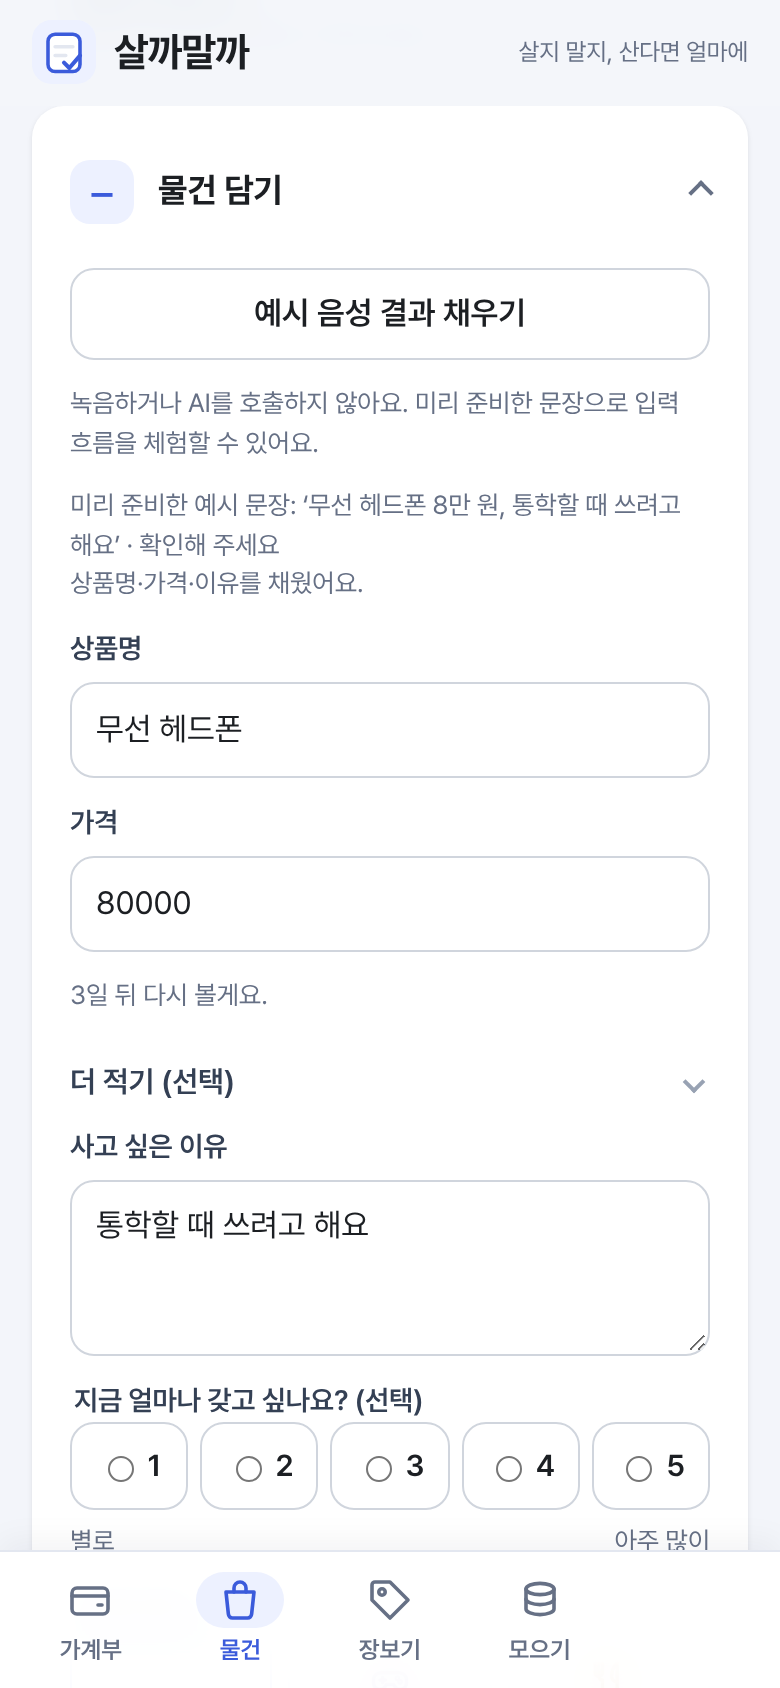
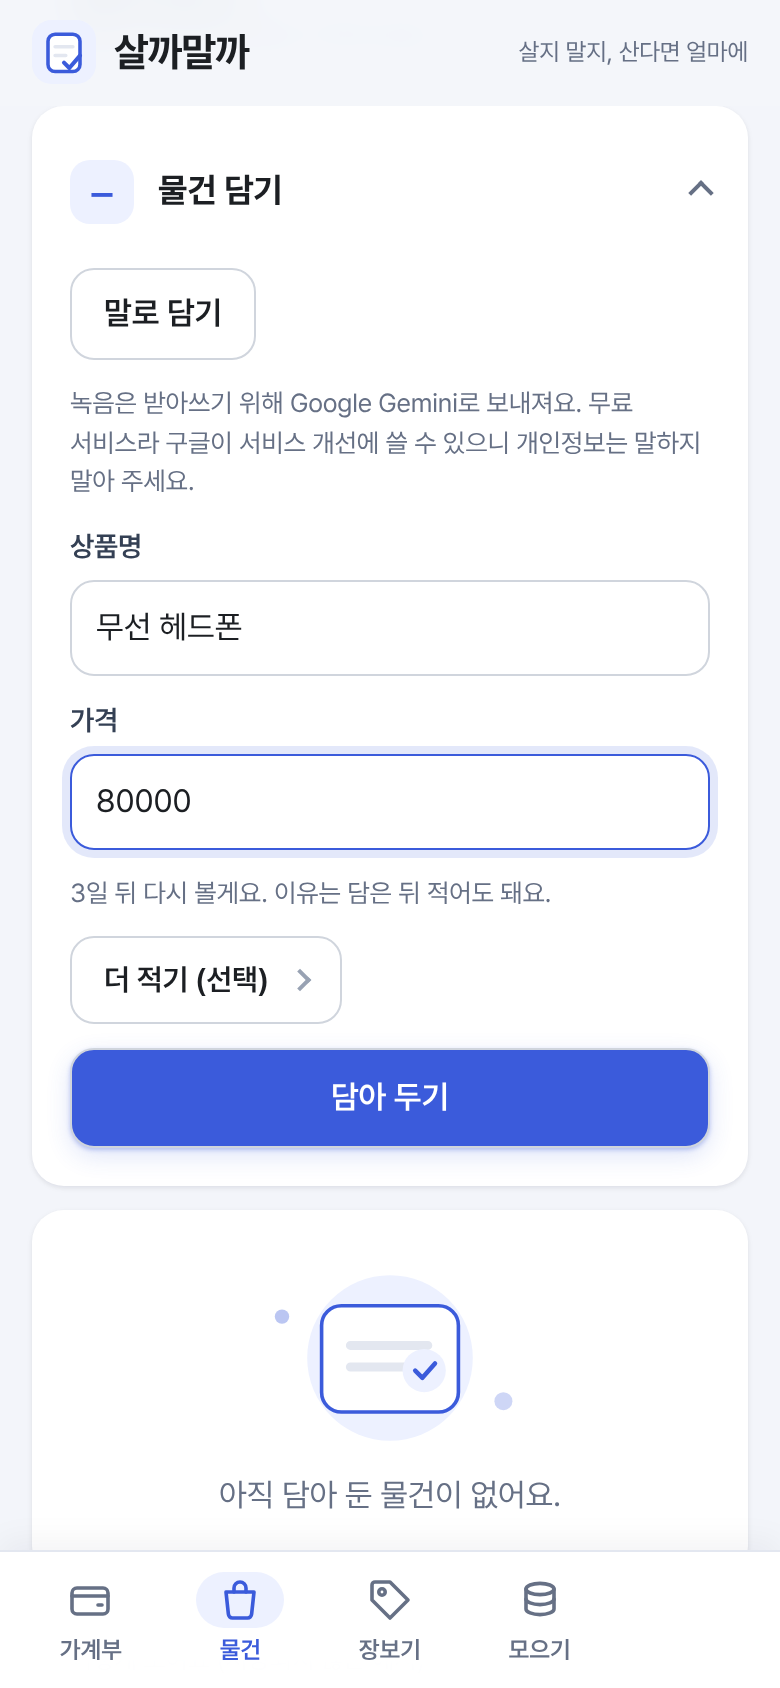
docs: bring the README up to date with the current app and retake photos
- Quick add: the public site has 말로 담기 (real recording to Gemini), not
  the demo voice button; the photo now shows name and price typed in
- Ledger: the payment/spending calendar is first and notes are folded;
  home, calendar, summary and dashboard photos retaken with the public
  (AI-connected) build; summary shot no longer has the bottom menu over it
- External prices, TODO stage table (46, 47), remaining-line counts, test
  count, commit count, skill notes and the deploy note match today
- capture.cjs works with the AI-connected build (skips the stored photo
  demo, types the quick-add values) and hides the menu in part shots

Claude-Session: https://claude.ai/code/session_01S73EWnxhi58fNFdfNCHbgg

diff --git a/docs/midterm_compare/README.md b/docs/midterm_compare/README.md
@@ -4,7 +4,7 @@
 
 ## 촬영 조건
 
-2026-11-02에 [capture.cjs](capture.cjs)로 다시 찍었다. GitHub Pages 배포 작업과 같은 방법으로 `main` 빌드와 `v1` 태그 빌드를 한 묶음으로 만들고, 새 브라우저(빈 저장소)에서 휴대폰 화면 390×844, 2배 해상도로 찍었다.
+2026-11-02에 [capture.cjs](capture.cjs)로 다시 찍었고, 개선본의 가계부·물건 사진(02·04·06·09·11·15)은 2026-11-03 공개 빌드(AI 서버 연결)로 다시 찍었다(가계부 달력이 맨 위로 옮겨짐). GitHub Pages 배포 작업과 같은 방법으로 `main` 빌드와 `v1` 태그 빌드를 한 묶음으로 만들고, 새 브라우저(빈 저장소)에서 휴대폰 화면 390×844, 2배 해상도로 찍었다.
 
 - 한 화면 사진(01\~06, 10)은 모두 780×1688, 같은 비율이다. 전후 사진은 같은 폭으로 나란히 놓는다.
 - 부분 사진(09, 11, 12, 14)은 카드 하나만 잘라 폭 716이고 높이는 내용만큼이다.
@@ -16,15 +16,15 @@
 | :---: | :---: |
 | <img src="01-home.png" width="260" alt="1차 물건 담기 첫 화면"> | <img src="02-home.png" width="260" alt="개선본 가계부 첫 화면"> |
 
-1차의 네 메뉴는 고민 중인 물건·가격 비교·결정 기록·구독이었다. 개선본은 2026-11-02(TODO 45단계)부터 가계부·물건·장보기·모으기 네 메뉴이고 가계부에서 시작한다(그 전에는 가격 비교·물건·결정 기록·가계부·모으기 다섯 메뉴에 가격 비교 시작). 결정 기록은 물건 안 하위 탭, 가격 비교는 장보기 안에 있다. **가격표 사진 예시**는 장보기의 마지막 비교 탭이고 주소 끝에 `?tab=photo`를 붙이면 바로 열린다. 사진 버튼은 2026-11-02 로컬 Gemini가 읽은 응답을 저장해 둔 것을 다시 보여 줄 뿐, 사진을 새로 분석하지 않는다. 2026-11-02 디자인 개선(TODO 37단계) 뒤로는 휴대폰 폭에서 주요 메뉴가 화면 아래에 아이콘과 함께 붙고, 비교 탭 네 개는 2×2 분할 버튼으로 보인다.
+1차의 네 메뉴는 고민 중인 물건·가격 비교·결정 기록·구독이었다. 개선본은 2026-11-02(TODO 45단계)부터 가계부·물건·장보기·모으기 네 메뉴이고 가계부에서 시작한다(그 전에는 가격 비교·물건·결정 기록·가계부·모으기 다섯 메뉴에 가격 비교 시작). 결정 기록은 물건 안 하위 탭, 가격 비교는 장보기 안에 있다. 2026-11-03부터 공개 빌드는 AI 서버에 연결돼 장보기의 첫 탭이 실시간 **가격표 사진**이고, 주소 끝에 `?tab=photo`를 붙이면 바로 열린다(그 전에는 저장된 **가격표 사진 예시**가 마지막 탭이었다). 2026-11-02 디자인 개선(TODO 37단계) 뒤로는 휴대폰 폭에서 주요 메뉴가 화면 아래에 아이콘과 함께 붙고, 비교 탭 네 개는 2×2 분할 버튼으로 보인다.
 
 ## 물건을 담을 때
 
 | 1차: 상품명·가격·이유를 함께 적음 | 개선본: 상품명·가격부터 담음 |
 | :---: | :---: |
-| <img src="01-home.png" width="260" alt="1차 상품명 가격 이유 입력 폼"> | <img src="06-quick-add.png" width="260" alt="개선본의 빠른 담기에 예시 음성 문장이 채워진 모습"> |
+| <img src="01-home.png" width="260" alt="1차 상품명 가격 이유 입력 폼"> | <img src="06-quick-add.png" width="260" alt="개선본의 빠른 담기에 상품명과 가격을 적은 모습"> |
 
-1차는 사고 싶은 이유를 적지 않으면 담을 수 없었다. 개선본은 이유와 갖고 싶은 정도를 `더 적기 (선택)`에 두었다. 오른쪽 사진은 `예시 음성 결과 채우기`로 미리 준비한 문장(‘무선 헤드폰 8만 원, 통학할 때 쓰려고 해요’)을 넣은 모습이며 녹음이나 AI 호출은 없다. [물건 탭 첫 화면](05-wishlist.png)에는 고민 중·결정 기록 하위 탭과 오늘 확인할 것이 있다(상황별 시작 버튼은 45단계에서 뺌).
+1차는 사고 싶은 이유를 적지 않으면 담을 수 없었다. 개선본은 이유와 갖고 싶은 정도를 `더 적기 (선택)`에 두었다. 오른쪽 사진은 공개 빌드의 물건 담기에 상품명 ‘무선 헤드폰’과 가격 80000을 직접 적은 모습이다. 위의 `말로 담기`는 녹음을 Gemini로 보내 칸을 채운다(공개 사이트에서는 아직 따로 확인하지 않음). [물건 탭 첫 화면](05-wishlist.png)에는 고민 중·결정 기록 하위 탭과 오늘 확인할 것이 있다(상황별 시작 버튼은 45단계에서 뺌).
 
 ## 매달 나가는 돈과 가계부
 
@@ -32,7 +32,7 @@
 | :---: | :---: |
 | <img src="03-subscriptions.png" width="260" alt="1차 구독 화면"> | <img src="04-fixed-costs.png" width="260" alt="개선본 가계부의 열린 결제 달력"> |
 
-구독에 통신·보험 등 고정비를 더하고, 공과금·자잘한 지출과 직접 적는 수입·지출을 가계부로 모았다. 45단계부터 가계부는 이달 요약 → 접힌 수입·지출 적기 → 달력 순서이고, 고정비·공과금과 자잘한 지출은 아래에 접혀 있다. 달력은 처음부터 펼쳐져 있고 날짜별 목록은 접혀 있다. 고정비가 없으면 저장되지 않는 예시 결제 4건이 보이고, 실제로 고정비를 등록하면 사라진다. 금액은 실제 청구액이 아니다.
+구독에 통신·보험 등 고정비를 더하고, 공과금·자잘한 지출과 직접 적는 수입·지출을 가계부로 모았다. 2026-11-03부터 가계부는 결제·지출 달력 → 구역 바로가기 → 이달 요약 → 접힌 수입·지출 적기 순서이고(45단계에서는 요약이 먼저였음), 고정비·공과금과 자잘한 지출은 아래에 접혀 있다. 달력은 처음부터 펼쳐져 있고 날짜별 목록과 합계·안내 문장은 접혀 있다. 고정비가 없으면 저장되지 않는 예시 결제 4건이 보이고, 실제로 고정비를 등록하면 사라진다. 금액은 실제 청구액이 아니다.
 
 | 결제·지출 달력 | 가계부 이달 요약 |
 | :---: | :---: |
@@ -50,7 +50,7 @@
 
 로컬 AI 서버에서는 2026-11-02 [CC0 차 진열 사진](https://commons.wikimedia.org/wiki/File:Various_Teas_from_South_Korea.jpg)의 조정용 사례 `rt01`([사진](../../public/demo/rt01.jpg))을 실제 Gemini로 읽었다. [사진을 고른 로컬 화면](07-ai-read-current.png)과 [실제 응답으로 채운 수정 칸](08-ai-result-current.png)에 상품명 `샘표순작연근우엉차`와 가격 `7100`이 보인다. 사진의 흐린 가격표 등은 잘못 읽을 수 있어 이 화면만으로 정확도를 주장하지 않는다.
 
-공개 사이트에서는 실시간 Gemini 연결이 작동하지 않아 서로 다른 진열대 사진 세 장(차: CC0, [라면](../../public/demo/ramen.jpg)·[젤리](../../public/demo/jelly.jpg): 제작자 직접 촬영)의 **저장된 결과**만 보여 준다. 라면·젤리도 2026-11-02 로컬 Gemini 실제 응답이다. 처음 열면 첫 사진인 라면 진열대의 결과가 펼쳐져 있고(아래 두 사진은 `차 진열대`를 누른 화면), 다른 사진 버튼을 누를 때도 AI 호출이나 온라인 가격 조회는 일어나지 않는다.
+(이전 기록, 2026-11-02) 공개 사이트에 실시간 Gemini 연결이 작동하지 않던 때는 서로 다른 진열대 사진 세 장(차: CC0, [라면](../../public/demo/ramen.jpg)·[젤리](../../public/demo/jelly.jpg): 제작자 직접 촬영)의 **저장된 결과**만 보여 줬다. 2026-11-03부터 공개 사이트는 실시간으로 읽고, 이 예시는 AI 서버가 없는 빌드에서만 나온다. 라면·젤리도 2026-11-02 로컬 Gemini 실제 응답이다. 처음 열면 첫 사진인 라면 진열대의 결과가 펼쳐져 있고(아래 두 사진은 `차 진열대`를 누른 화면), 다른 사진 버튼을 누를 때도 AI 호출이나 온라인 가격 조회는 일어나지 않는다.
 
 | 저장된 읽기 결과 | 2026-11-02 다나와 표시 최저가 |
 | :---: | :---: |
